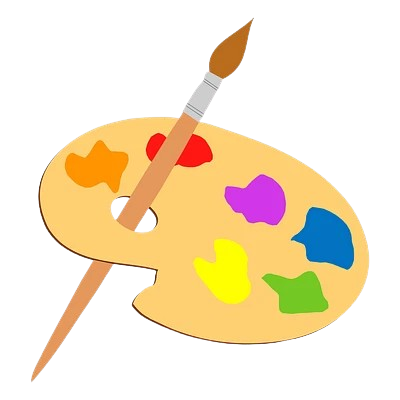
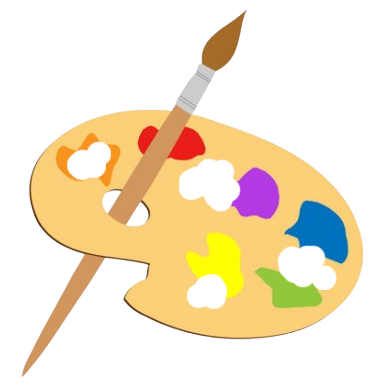
about us redesign
subteam intros look nicer now

Changed region(s): [[0.0593, 0.0312, 0.9784, 0.9974]]

diff --git a/src/pages/AboutUs.tsx b/src/pages/AboutUs.tsx
@@ -8,6 +8,51 @@ import DnaShowcase from "@/components/about/DnaShowcase";
 import { missionIntro, igemIntro, subteams } from "@/lib/content";
 import { cn } from "@/lib/utils";
 
+function SubteamShowcase() {
+  return (
+    <div className="relative isolate mt-16 space-y-16 sm:space-y-24">
+      {subteams.map((t, i) => {
+        const flip = i % 2 === 1;
+        return (
+          <React.Fragment key={t.id}>
+            <div className="relative z-10">
+            <Reveal from={flip ? "right" : "left"}>
+            <div className="grid items-center gap-6 lg:grid-cols-2 lg:gap-0">
+              
+              <div className={cn("relative", flip ? "lg:order-2" : "lg:order-1")}>
+                <div
+                  className={cn("pointer-events-none absolute inset-0 translate-y-6 scale-95 rounded-[2rem] opacity-40 blur-2xl", t.bar)}
+                  aria-hidden
+                />
+                <div className="relative overflow-hidden rounded-[2rem] border border-ink/8 shadow-lg">
+                  <img src={t.image} alt={t.imageAlt} className="h-72 w-full object-cover sm:h-[28rem]" loading="lazy" />
+                </div>
+              </div>
+              <div className={cn("relative z-10", flip ? "lg:order-1 lg:-mr-12" : "lg:order-2 lg:-ml-12")}>
+                <div className="relative overflow-hidden rounded-3xl border border-ink/8 bg-paper p-6 shadow-xl sm:p-8">
+                  <span className="pointer-events-none absolute -right-1 -top-2 font-display text-7xl font-black text-ink/[0.06] sm:text-8xl">
+                    {String(i + 1).padStart(2, "0")}
+                  </span>
+                  <div className="relative flex items-center gap-4">
+                    <span className={cn("flex h-14 w-14 shrink-0 items-center justify-center rounded-2xl", t.bar)}>
+                      <img src={t.icon} alt="" className="h-7 w-7 object-contain [filter:brightness(0)_invert(1)]" />
+                    </span>
+                    <h3 className="font-display text-2xl font-bold sm:text-3xl">{t.name}</h3>
+                  </div>
+                  <span className={cn("relative mt-5 block h-1 w-14 rounded-full", t.bar)} />
+                  <p className="relative mt-5 leading-relaxed text-ink-soft">{t.body}</p>
+                </div>
+              </div>
+            </div>
+            </Reveal>
+            </div>
+          </React.Fragment>
+        );
+      })}
+    </div>
+  );
+}
+
 export default function AboutUs() {
   return (
     <>
@@ -21,36 +66,11 @@ export default function AboutUs() {
         lede={missionIntro}
         aside={<DnaShowcase className="lg:-my-4" />}
       />
-      <section className="mx-auto max-w-7xl px-6 py-24">
-        <SectionHeading eyebrow="Our mission" title="Novel biology, real-world impact" />
-        <Reveal delay={0.1} className="mt-8 max-w-3xl text-lg leading-relaxed text-ink-soft">
-          {igemIntro}
-        </Reveal>
-      </section>
 
-      <section className="border-t border-ink/8 bg-paper-warm py-24 sm:py-28">
+      <section className="bg-paper-warm py-24 sm:py-28">
         <div className="mx-auto max-w-7xl px-6">
           <SectionHeading eyebrow="Subteams" title="How we're organized" align="center" />
-          <div className="mt-16 space-y-20">
-            {subteams.map((t, i) => {
-              const flip = i % 2 === 1;
-              return (
-                <div key={t.id} className="grid items-center gap-10 lg:grid-cols-2 lg:gap-16">
-                  <Reveal from={flip ? "right" : "left"} className={cn(flip && "lg:order-2")}>
-                    <div className="overflow-hidden rounded-3xl border border-ink/8 shadow-lg">
-                      <img src={t.image} alt={t.imageAlt} className="h-72 w-full object-cover sm:h-96" loading="lazy" />
-                    </div>
-                  </Reveal>
-                  <Reveal from={flip ? "left" : "right"} delay={0.08} className={cn(flip && "lg:order-1")}>
-                    <span className={`font-mono text-xs font-bold ${t.text}`}>{String(i + 1).padStart(2, "0")}</span>
-                    <h3 className="mt-2 font-display text-2xl font-bold sm:text-3xl">{t.name}</h3>
-                    <span className={`mt-4 block h-1 w-14 rounded-full ${t.bar}`} />
-                    <p className="mt-5 leading-relaxed text-ink-soft">{t.body}</p>
-                  </Reveal>
-                </div>
-              );
-            })}
-          </div>
+          <SubteamShowcase />
         </div>
       </section>
 

diff --git a/src/lib/content.ts b/src/lib/content.ts
@@ -34,7 +34,7 @@ export const subteams = [
       "The team is also responsible for developing and designing synthetic biological systems that will be designed on benchling and built/testing in the lab. " +
       "During the spring and summer term the wet lab team will work in the lab to make the project into reality, " +
       "generating data that will be used to validate the project design.",
-    icon: "/photos/about-us/tube.png",
+      icon: "/photos/about-us/tubes.png",
   },
   {
     id: "drylab",
@@ -81,7 +81,7 @@ export const subteams = [
       "creating the visuals to help communicate our project to the general public and at the iGEM jamboree competition. " +
       "Our Design members are responsible for creating and managing the brand for iGEM and managing major projects/deliveries. " +
       "Our social media are pivotal with increasing our outreach within our community and improve our communication with members.",
-    icon: "/photos/about-us/video.png",
+    icon: "/photos/about-us/clap.png",
   },
   {
     id: "finance",
@@ -89,8 +89,8 @@ export const subteams = [
     short: "Secures the necessary funding and sponsorship.",
     image: "/photos/about-us/Sponsorship.jpg",
     imageAlt: "Admin team members",
-    bar: "bg-coral",
-    text: "text-coral-deep",
+    bar: "bg-leaf",
+    text: "text-coral-leaf",
     body:
       "The Finance Subcommittee is dedicated to securing the necessary funding and sponsorships to enable our team's participation " +
       "in the iGEM Jamboree in Paris. This team focuses on identifying potential funding sources, developing sponsorship proposals, " +